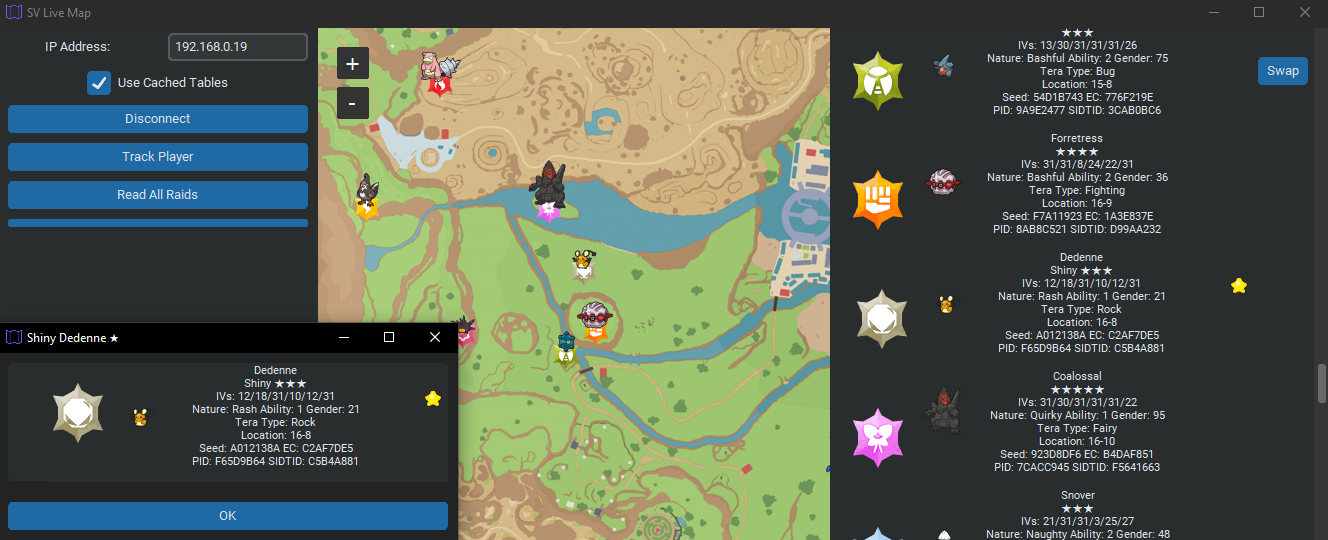
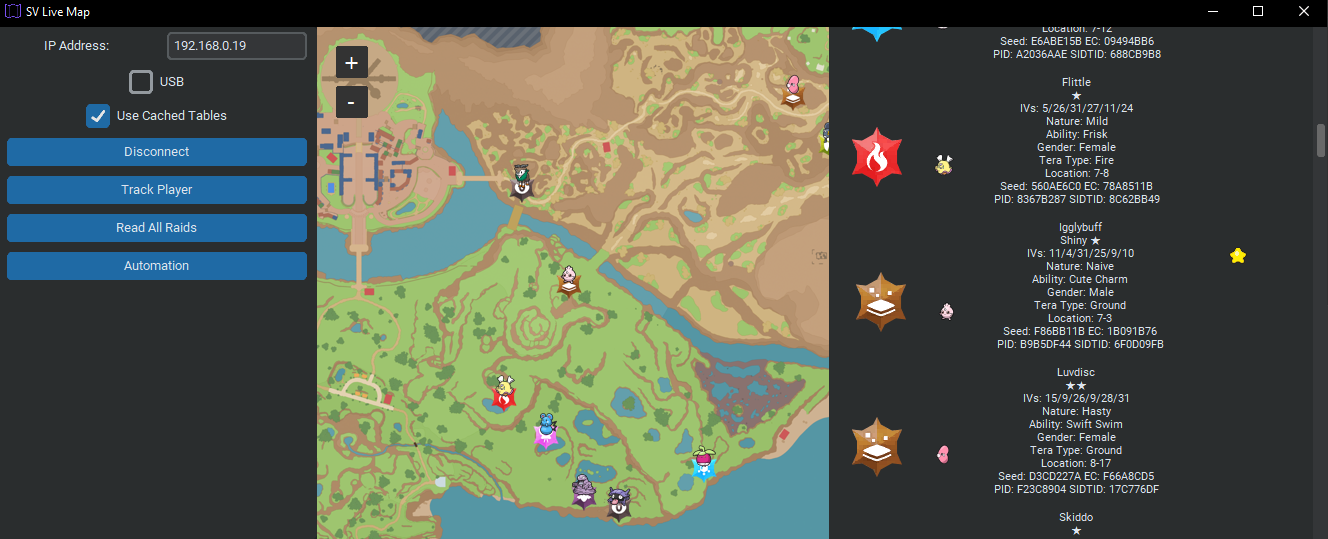
update readme

diff --git a/README.md b/README.md
@@ -1,8 +1,11 @@
 # sv-live-map
 [![GitHub License](https://img.shields.io/github/license/Lincoln-LM/sv-live-map?color=ff69b4)](https://github.com/Lincoln-LM/sv-live-map/blob/master/LICENSE)
 [![](https://img.shields.io/github/workflow/status/Lincoln-LM/sv-live-map/Package%20Application%20with%20PyInstaller?logo=github)](https://github.com/Lincoln-LM/sv-live-map/actions/workflows/main.yml)
+
 [![](https://img.shields.io/badge/Windows%20Executable-Direct%20Download-blue)](https://nightly.link/Lincoln-LM/sv-live-map/workflows/main/master/windows-build.zip)
+
 [![](https://img.shields.io/badge/Linux%20Executable-Direct%20Download-7c6dbf)](https://nightly.link/Lincoln-LM/sv-live-map/workflows/main/master/linux-build.zip)
+
 [![](https://img.shields.io/badge/Python%20Scripts-Direct%20Download-orange)](https://github.com/Lincoln-LM/sv-live-map/archive/refs/heads/master.zip)
 
 WIP GUI Map displaying information on Tera Raid Dens in Pokémon Scarlet and Violet
@@ -11,7 +14,11 @@ Spiritual sequel to [PLA-Live-Map](https://github.com/Lincoln-LM/PLA-Live-Map)
 
 ![](./program.png)
 
-For a non-map GUI and automation of rerolling dens, check out [LegoFigure11](https://github.com/LegoFigure11)'s [RaidCrawler](https://github.com/LegoFigure11/RaidCrawler)
+![](./automation.png)
+
+![](./popup.png)
+
+For a non-map GUI, check out [LegoFigure11](https://github.com/LegoFigure11)'s [RaidCrawler](https://github.com/LegoFigure11/RaidCrawler)
 
 ### Feature Requests/Pull Requests are welcome! Current problems/planned features are denoted with "TODO:" in code, or posted in the issues tab.
 
@@ -19,6 +26,8 @@ For a non-map GUI and automation of rerolling dens, check out [LegoFigure11](htt
 sv-live-map reads tera raid encounter info directly from the flatbuffer binary in memory, this means that this repo does not need to contain serialized encounter information. 
 This encounter info is then used to predict the generation of raid dens from their seeds and the player's current story progress, also stored in memory.
 All relevant read/derived information is then displayed to the user via the graphical user interface.
+
+The program also supports automatically date skipping until a target is found.
 
 The main purpose of this project is to show off [elegant parsing of flatbuffer binaries in python](./sv_live_map_core/raid_enemy_table_array.py), documenting the structure of the binaries used in SV, test out [binary parsing with bytechomp](sv_live_map_core/raid_block.py), test out [modern-looking python gui with customtkinter](./main_gui), new features of python 3.11.0, as well as provide an alternative tool for reading raid data via sys-botbase.
 
